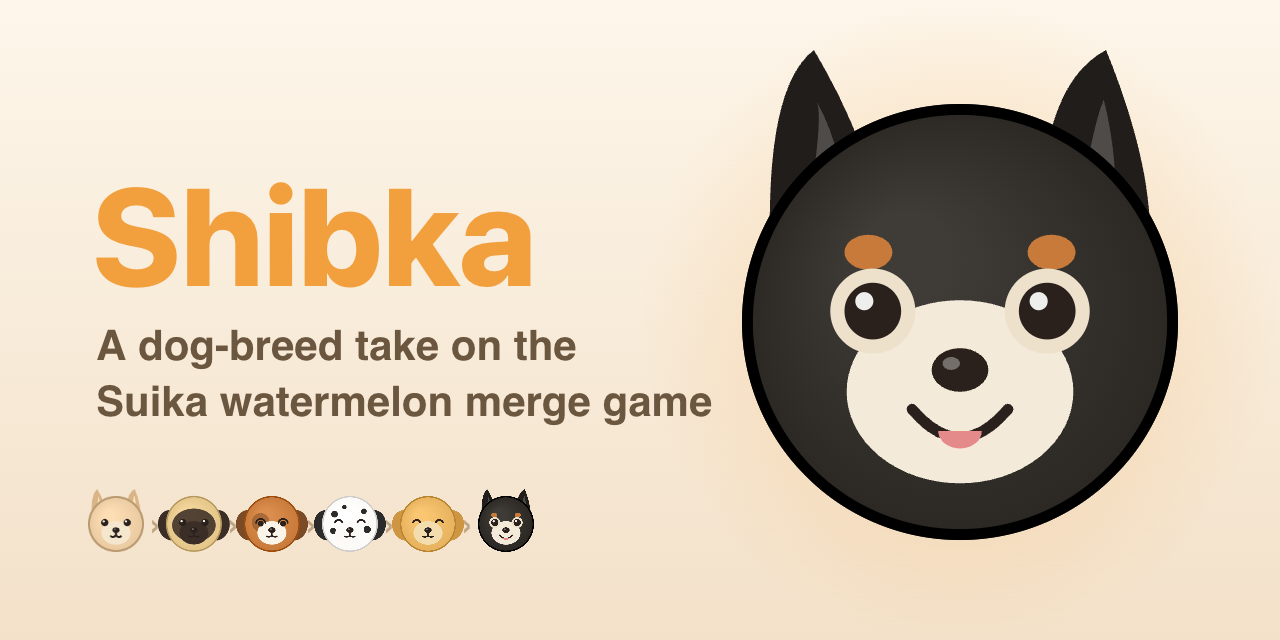
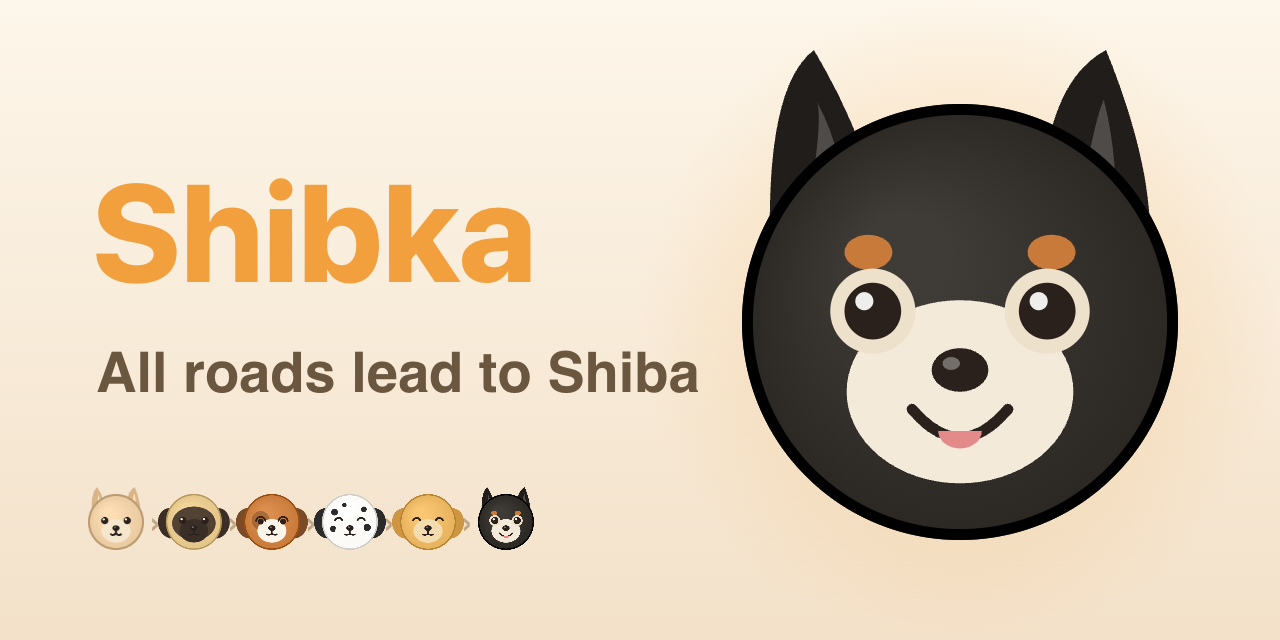
Tagline → "All roads lead to Shiba" (social card + descriptions)
Re-rendered assets/social-preview.png with the new tagline and updated the
OG/Twitter/meta descriptions and README to match.

diff --git a/index.html b/index.html
@@ -4,21 +4,21 @@
   <meta charset="UTF-8" />
   <meta name="viewport" content="width=device-width, initial-scale=1.0, maximum-scale=1.0, user-scalable=no" />
   <title>Shibka — Dog Merge Game</title>
-  <meta name="description" content="A dog-breed take on the Suika / Watermelon merge game. Drop pups and merge your way up to the Shiba Inu." />
+  <meta name="description" content="All roads lead to Shiba — a dog-breed take on the Suika / Watermelon merge game." />
   <link rel="icon" type="image/png" href="assets/favicon.png" />
 
   <!-- Social preview (Open Graph + Twitter) -->
   <meta property="og:type" content="website" />
   <meta property="og:title" content="Shibka — Dog Merge Game" />
-  <meta property="og:description" content="A dog-breed take on the Suika / Watermelon merge game. Drop pups and merge your way up to the Shiba Inu." />
+  <meta property="og:description" content="All roads lead to Shiba — a dog-breed take on the Suika / Watermelon merge game." />
   <meta property="og:url" content="https://avegancafe.github.io/shibka/" />
   <meta property="og:image" content="https://avegancafe.github.io/shibka/assets/social-preview.png" />
   <meta property="og:image:width" content="1280" />
   <meta property="og:image:height" content="640" />
-  <meta property="og:image:alt" content="The Shibka logo beside a black-and-tan Shiba Inu face" />
+  <meta property="og:image:alt" content="Shibka — all roads lead to Shiba (a black-and-tan Shiba Inu face)" />
   <meta name="twitter:card" content="summary_large_image" />
   <meta name="twitter:title" content="Shibka — Dog Merge Game" />
-  <meta name="twitter:description" content="A dog-breed take on the Suika / Watermelon merge game." />
+  <meta name="twitter:description" content="All roads lead to Shiba — a dog-breed take on the Suika / Watermelon merge game." />
   <meta name="twitter:image" content="https://avegancafe.github.io/shibka/assets/social-preview.png" />
 
   <link rel="stylesheet" href="css/style.css" />

diff --git a/README.md b/README.md
@@ -1,6 +1,8 @@
 # Shibka 🐾
 
-![Shibka — a dog-breed take on the Suika watermelon merge game](assets/social-preview.png)
+![Shibka — all roads lead to Shiba](assets/social-preview.png)
+
+> **All roads lead to Shiba.**
 
 A cute, physics-based **merge puzzle** — a fan reskin of the Suika / Watermelon
 game, but with **dog breeds** instead of fruit. Drop pups into the bin; when two